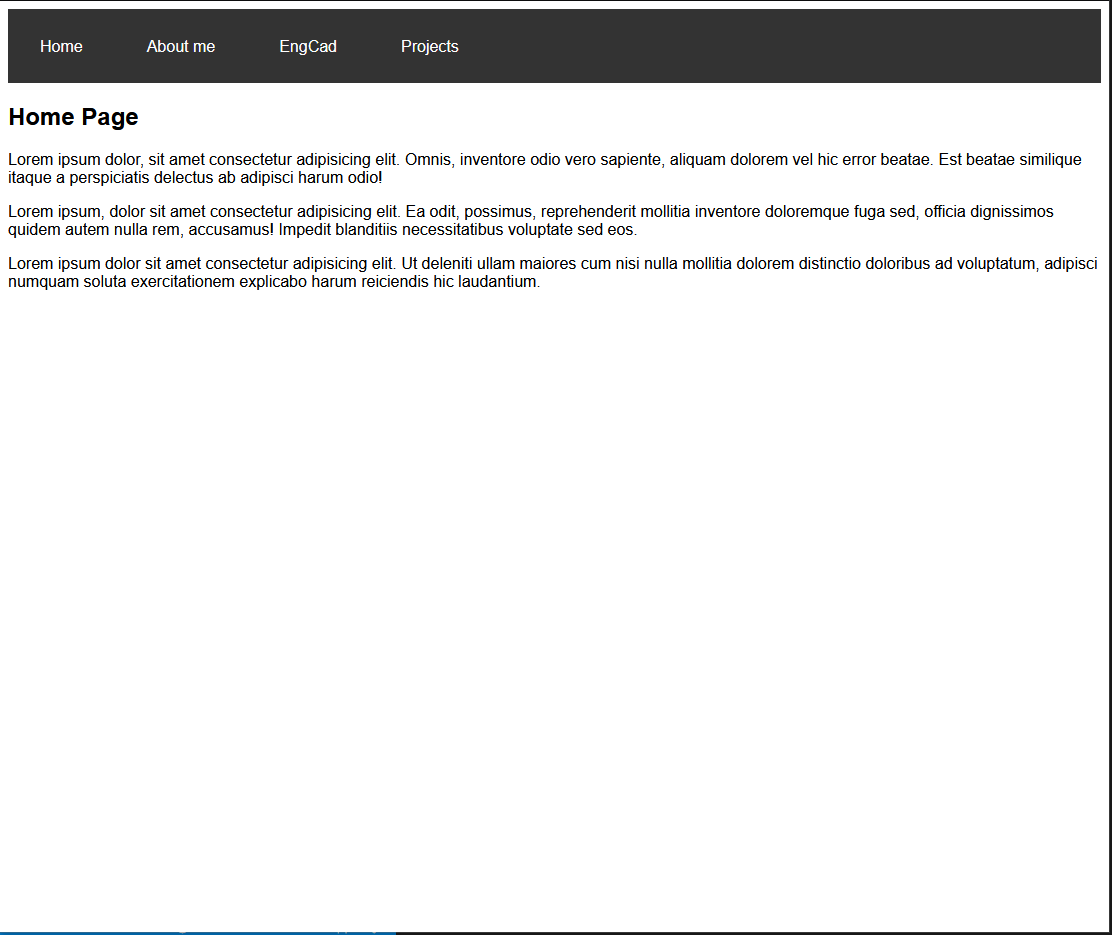
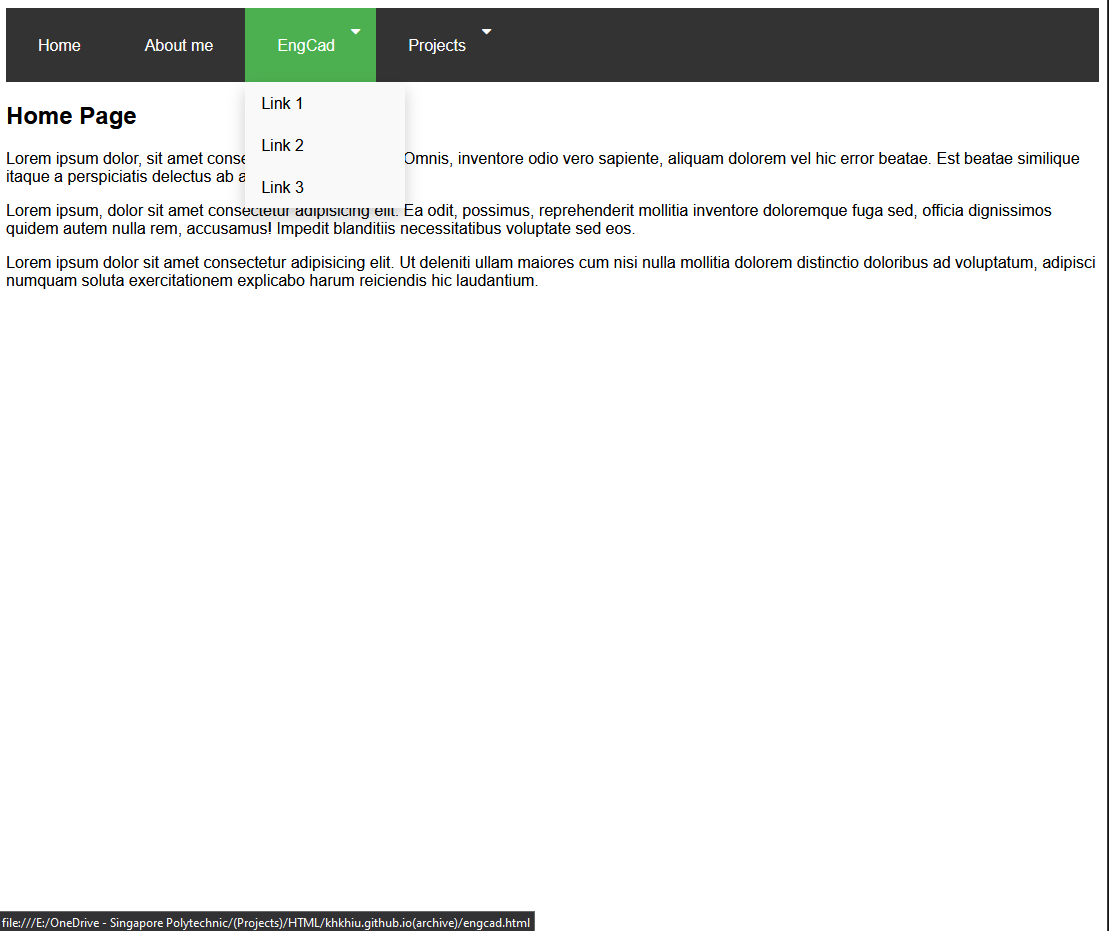
HTML complete

diff --git a/_posts/2021-03-29-engcad-github-pages.md b/_posts/2021-03-29-engcad-github-pages.md
@@ -65,6 +65,15 @@ Referencing <a href="https://www.w3schools.com/howto/howto_css_dropdown_navbar.a
 
 I then refactored both the HTML and CSS to allow for both 'EngCad' and 'Projects' to have their individual dropdown menus. Simultaneously, the 'about' and 'index' page buttons were altered to have a unified appearance.
 
+| ![refactor HTML](/assets/images/2021-03-29-engcad-github-pages/refactored_HTML.png)<em>refactoring HTML</em> | ![refactor CSS](/assets/images/2021-03-29-engcad-github-pages/refactored_CSS.png) <em>refactoring CSS</em> |
+
+![drop down](/assets/images/2021-03-29-engcad-github-pages/Local_machine_design_drop.png) <em>Drop down design complete</em>
+
+I also used font-awesome to add GitHub and Linkedin icons.
+
+| ![awesome font](/assets/images/2021-03-29-engcad-github-pages/fa_icons.png)<em>adding awesome font</em> | ![icons](/assets/images/2021-03-29-engcad-github-pages/Local_machine_design_icons.png) <em>icons added</em> |
+
+However, despite my progress, I realised that I have spend about 3 hours on my website and I have just barely started. Hence, I decided to look into Jekyll to expedite my progress.
 
 
 ***
